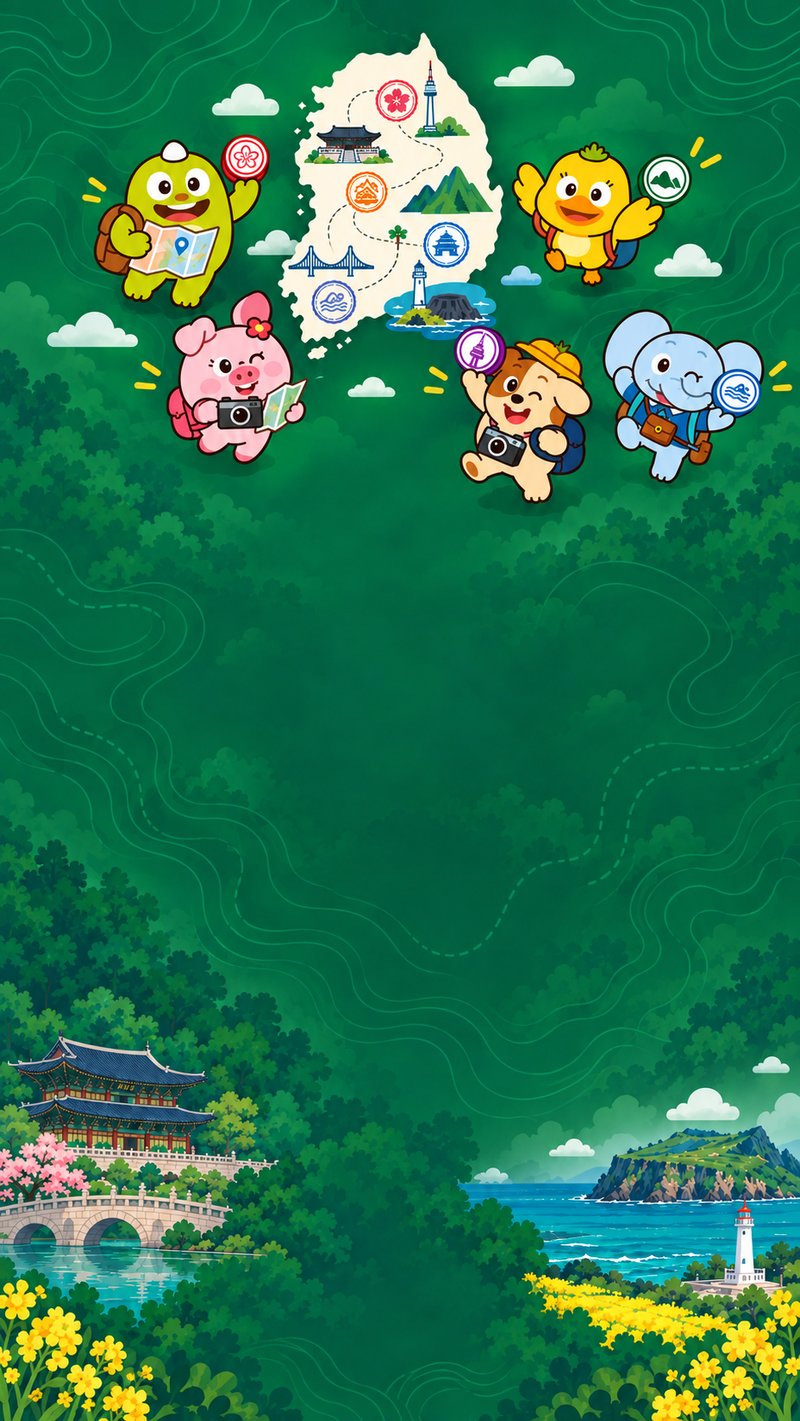
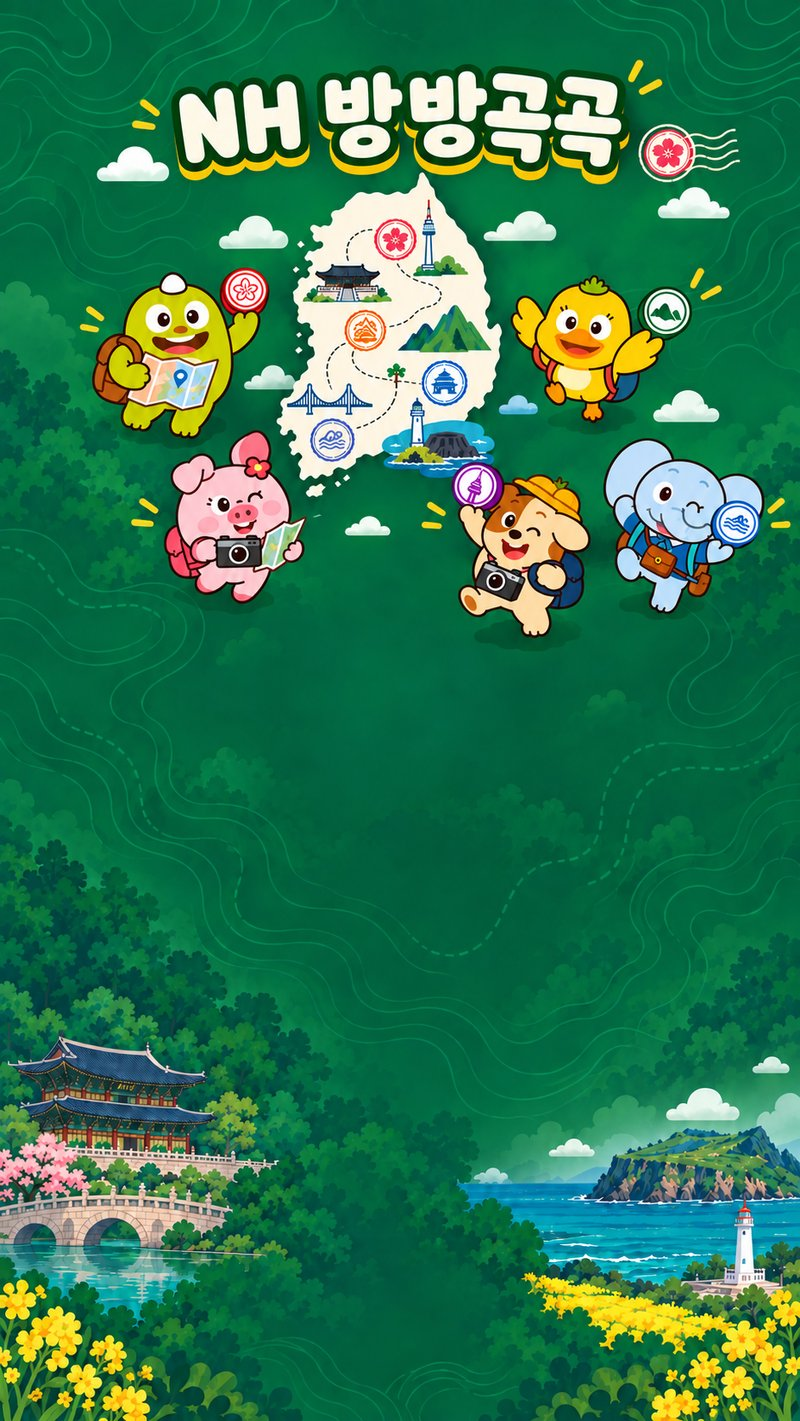
feat: 로그인 배경 이미지를 타이틀 포함 버전으로 교체
"NH 방방곡곡" 타이틀이 들어간 새 배경으로 교체하고, 마스코트 위치가
달라진 만큼 로그인 카드 위치(margin-top)도 다시 맞춤.

diff --git a/frontend/src/pages/LoginPage.css b/frontend/src/pages/LoginPage.css
@@ -15,7 +15,7 @@
 }
 
 .login-card {
-  margin-top: 38vh;
+  margin-top: 44vh;
   background: white;
   border: 6px solid #ffffff;
   border-radius: 28px;
